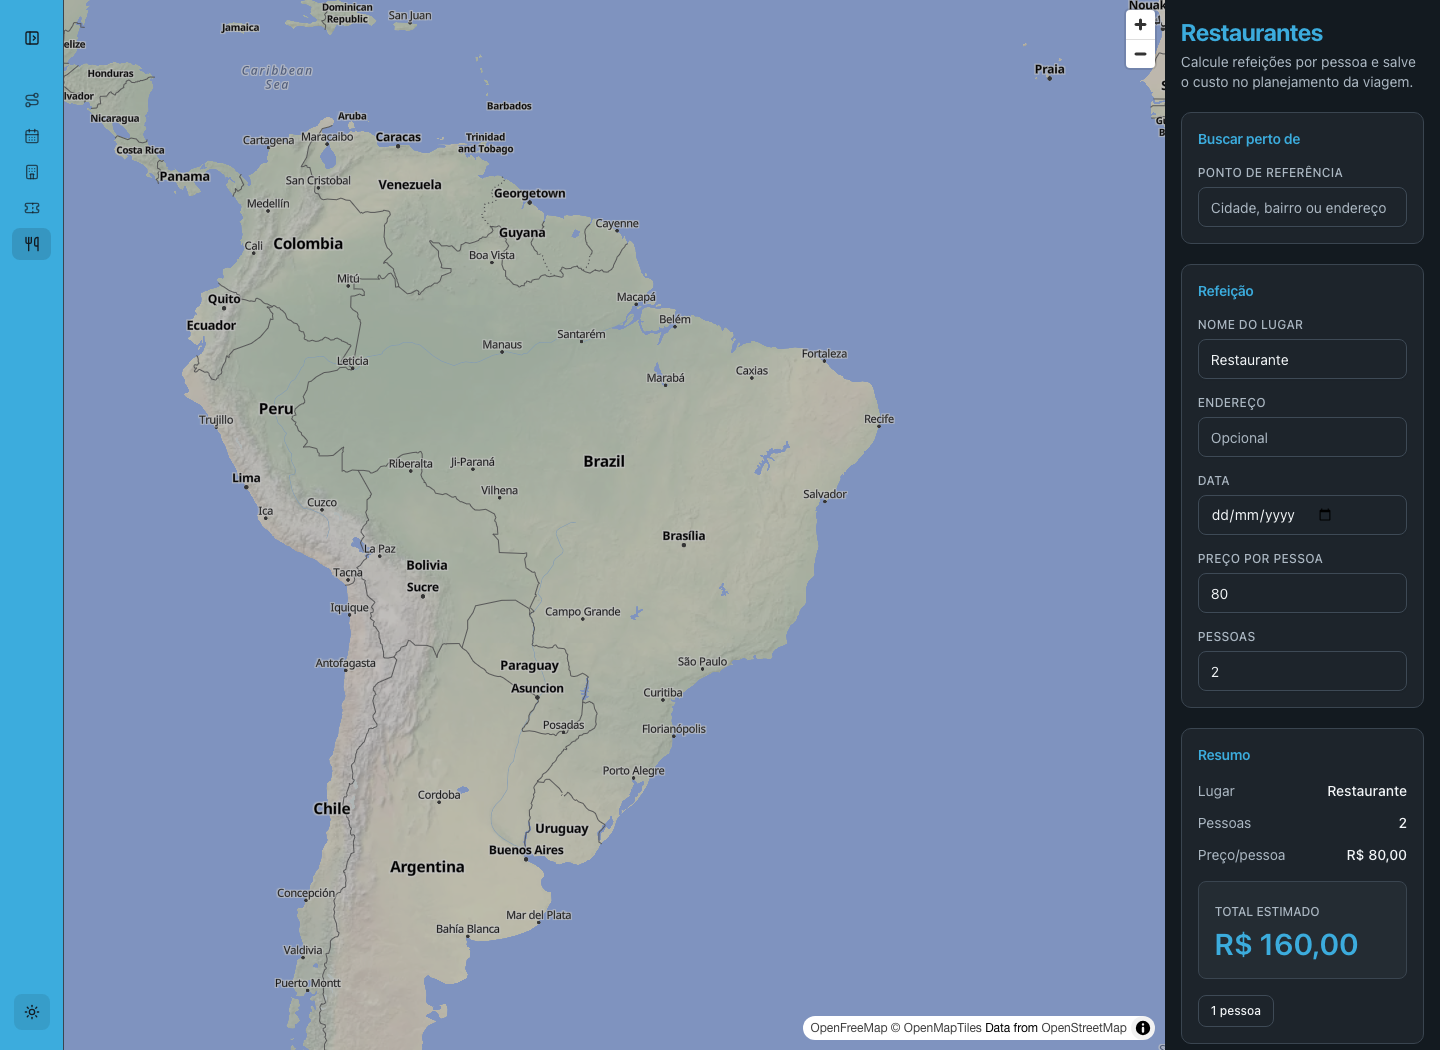
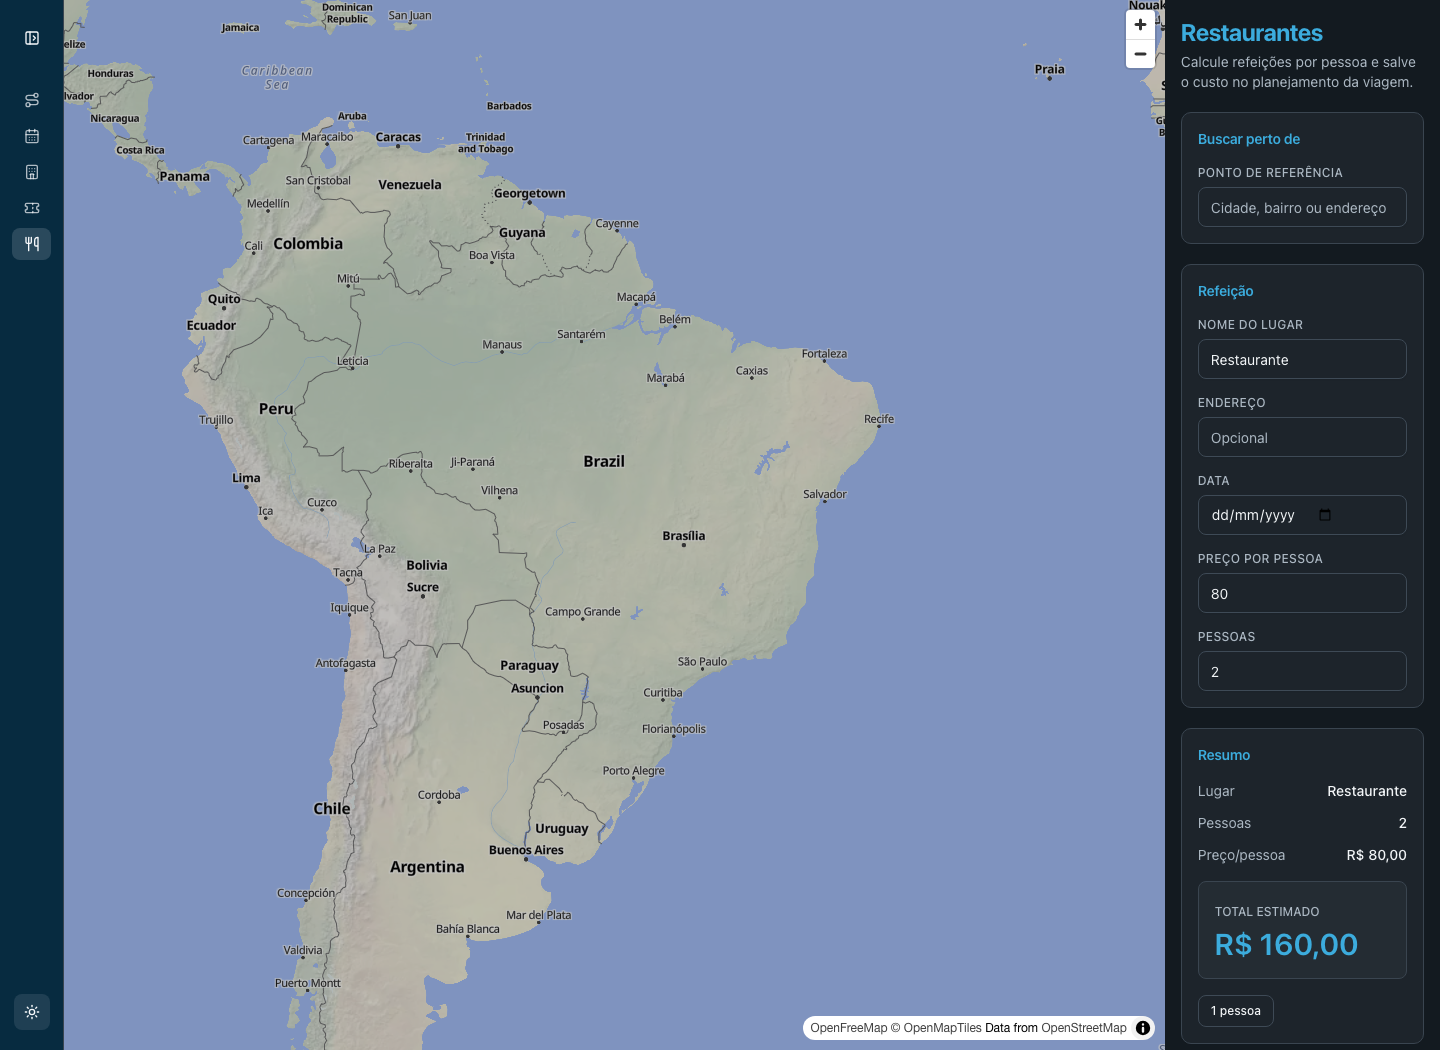
fix(web): stabilize compact activity panel

Changed region(s): [[0.0, 0.0, 0.0625, 1.0]]

diff --git a/apps/web/src/index.css b/apps/web/src/index.css
@@ -27,6 +27,8 @@
     /* Petrol blue — structure, nav, headings. */
     --primary: 202 80% 20%;
     --primary-foreground: 210 40% 98%;
+    --sidebar: 202 80% 20%;
+    --sidebar-foreground: 210 40% 98%;
 
     --secondary: 210 22% 94%;
     --secondary-foreground: 202 80% 20%;
@@ -60,6 +62,8 @@
 
     --primary: 198 70% 55%;
     --primary-foreground: 210 30% 10%;
+    --sidebar: 202 80% 14%;
+    --sidebar-foreground: 210 40% 98%;
 
     --secondary: 210 16% 20%;
     --secondary-foreground: 210 24% 96%;
@@ -96,6 +100,11 @@
  * bolted onto the page.
  */
 @layer components {
+  .app-sidebar {
+    --primary-foreground: var(--sidebar-foreground);
+    background-color: hsl(var(--sidebar)) !important;
+  }
+
   .maplibregl-ctrl-attrib {
     @apply !bg-card/80 !text-[10px] !text-muted-foreground;
   }
@@ -128,6 +137,10 @@
     .map-content-panel fieldset,
     .map-content-panel .grid-cols-2 {
       grid-template-columns: minmax(0, 1fr) !important;
+    }
+
+    .map-content-panel .activity-search-card {
+      grid-column: span 1 / span 1 !important;
     }
   }
 }

diff --git a/apps/web/src/core/shell/AppShell.test.tsx b/apps/web/src/core/shell/AppShell.test.tsx
@@ -52,6 +52,7 @@ describe('AppShell', () => {
     await user.click(screen.getByRole('button', { name: 'Minimizar menu lateral' }));
 
     expect(screen.getByRole('navigation', { name: 'Módulos' })).toHaveClass('md:w-16');
+    expect(screen.getByRole('navigation', { name: 'Módulos' })).toHaveClass('app-sidebar');
     expect(screen.getByRole('button', { name: 'Expandir menu lateral' })).toBeInTheDocument();
     expect(screen.getByRole('link', { name: 'Hospedagem' })).toHaveAttribute('title', 'Hospedagem');
     expect(window.localStorage.getItem(SIDEBAR_STORAGE_KEY)).toBe('true');

diff --git a/apps/web/src/core/shell/AppShell.tsx b/apps/web/src/core/shell/AppShell.tsx
@@ -62,7 +62,7 @@ export function AppShell({ children }: { children: ReactNode }) {
       <nav
         aria-label="Módulos"
         className={cn(
-          'relative z-10 flex shrink-0 items-center gap-3 border-border bg-primary px-3 py-2.5',
+          'app-sidebar relative z-10 flex shrink-0 items-center gap-3 border-border bg-primary px-3 py-2.5',
           'border-b md:flex-col md:items-stretch md:gap-1 md:border-b-0 md:border-r md:py-5',
           isSidebarCollapsed ? 'md:w-16' : 'md:w-56',
         )}

diff --git a/apps/web/src/modules/atividades/atividades.test.tsx b/apps/web/src/modules/atividades/atividades.test.tsx
@@ -65,6 +65,13 @@ describe('Atividades module', () => {
     expect(fetchSpy).not.toHaveBeenCalled();
   });
 
+  it('marks the search card so the compact map panel can keep a single grid column', () => {
+    mockApi();
+    renderApp('/atividades');
+
+    expect(screen.getByText('Encontrar atividade').closest('.activity-search-card')).toBeInTheDocument();
+  });
+
   it('shows a validation message instead of a total when the input is invalid', async () => {
     const user = userEvent.setup();
     mockApi();

diff --git a/apps/web/src/modules/atividades/index.tsx b/apps/web/src/modules/atividades/index.tsx
@@ -149,7 +149,7 @@ function AtividadesPanel() {
       </header>
 
       <div className="calculator-main-grid grid gap-4 lg:grid-cols-[minmax(0,1fr)_20rem]">
-        <Card className="lg:col-span-2">
+        <Card className="activity-search-card lg:col-span-2">
           <CardHeader>
             <CardTitle>Encontrar atividade</CardTitle>
           </CardHeader>

diff --git a/docs/decisions/0002-ui-shell-theme-and-map-layout.md b/docs/decisions/0002-ui-shell-theme-and-map-layout.md
@@ -26,6 +26,9 @@ mapa.
 - A classe `dark` é aplicada em `<html>`. As cores do design system continuam
   sendo tokens CSS em `apps/web/src/index.css`; não introduzir paleta direta
   em módulos para novos componentes.
+- A barra lateral usa `--sidebar`/`--sidebar-foreground`, separados do token
+  `primary`: no tema escuro ela permanece azul-petróleo escura com texto e
+  ícones claros, mesmo que `primary` fique mais luminoso para títulos.
 - O canvas do MapLibre recebe redução visual de brilho/saturação no tema escuro
   sem alterar dados de rota, marcadores ou o estilo remoto do provedor.
 
@@ -51,6 +54,10 @@ mapa.
   formulários tornam-se coluna única e o container bloqueia overflow horizontal;
   não usar larguras mínimas ou grids por breakpoint de viewport sem considerar
   esse container.
+- Atividades tem um card de busca que normalmente ocupa duas colunas; ele usa
+  `activity-search-card` e volta explicitamente a uma coluna dentro do painel
+  compacto. Sem essa regra, o CSS grid cria colunas implícitas e estreita os
+  cards de dados e resumo.
 - O enquadramento inicial é Brasil (`center: [-52.5, -14.5]`, `zoom: 3.4`).
   A lógica existente de `fitBounds` ainda assume a visualização quando houver
   uma rota ou marcadores publicados.
